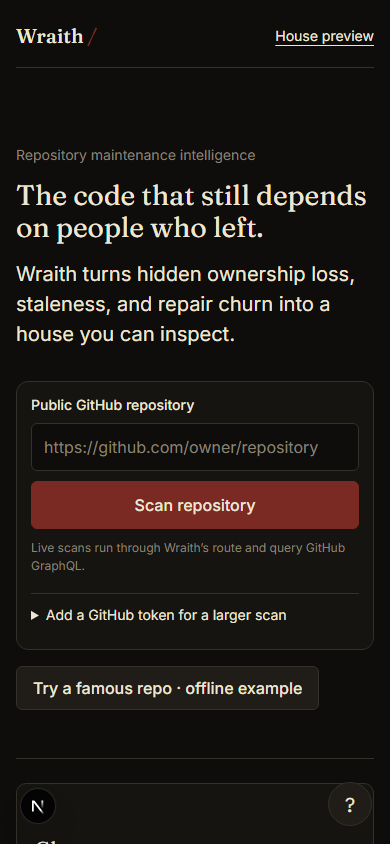
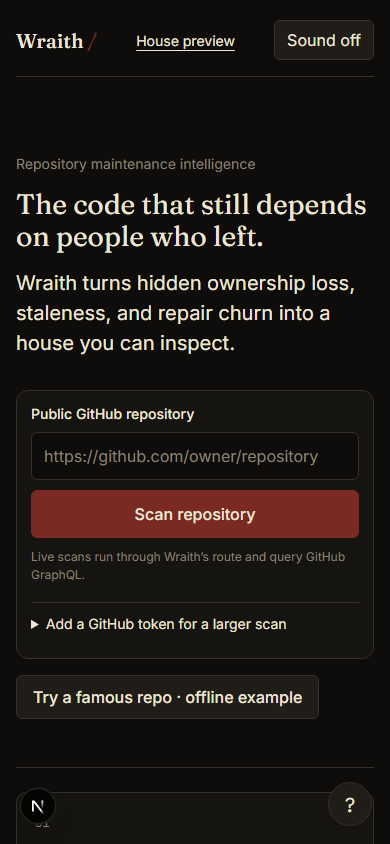
Add optional user activated sound cue

diff --git a/src/ui/ScannerExperience.tsx b/src/ui/ScannerExperience.tsx
@@ -3,6 +3,7 @@
 import { useCallback, useEffect, useState, type FormEvent } from 'react';
 import Lenis from 'lenis';
 import { motionTokens } from '../motion/tokens';
+import { useSound } from '../motion/sound';
 import { calculateRiskReport } from '../scoring';
 import { housePreviewSnapshot } from '../fixtures/houseReport';
 import type { RepoSnapshot, RiskReport } from '../types';
@@ -29,6 +30,7 @@ export default function ScannerExperience() {
   const [usingFixture, setUsingFixture] = useState(false);
   const [shortcutsOpen, setShortcutsOpen] = useState(false);
   const [easterEgg, setEasterEgg] = useState(false);
+  const sound = useSound();
 
   useEffect(() => {
     const reduced = !window.matchMedia || window.matchMedia('(prefers-reduced-motion: reduce)').matches;
@@ -49,6 +51,7 @@ export default function ScannerExperience() {
   }, []);
 
   const tryExample = useCallback(async () => {
+    sound.play();
     setState('loading');
     setMessage('Loading a local example. No GitHub request is made.');
     try {
@@ -62,10 +65,11 @@ export default function ScannerExperience() {
     showSnapshot({ ...housePreviewSnapshot, repoName: `Fixture · ${exampleRepository}` }, true);
     setRepoUrl(`https://github.com/${exampleRepository}`);
     setMessage(`Offline fixture loaded for ${exampleRepository}. It is illustrative sample data, not a live scan.`);
-  }, [showSnapshot]);
+  }, [showSnapshot, sound.play]);
 
   const scan = useCallback(async (event: FormEvent<HTMLFormElement>) => {
     event.preventDefault();
+    sound.play();
     setState('loading');
     setMessage('Reading repository files and history from GitHub.');
     setReport(null);
@@ -89,7 +93,7 @@ export default function ScannerExperience() {
       setState('error');
       setMessage('The scan service could not be reached. Check the connection and try again.');
     }
-  }, [repoUrl, showSnapshot, visitorToken]);
+  }, [repoUrl, showSnapshot, sound.play, visitorToken]);
 
   const reset = () => {
     setReport(null);
@@ -104,6 +108,7 @@ export default function ScannerExperience() {
       <header className="landing-nav">
         <a className="wordmark" href="/" aria-label="Wraith home">Wraith<span aria-hidden="true">/</span></a>
         <a className="nav-link" href="/house-preview">House preview</a>
+        <button className="sound-toggle" type="button" aria-pressed={sound.enabled} onClick={sound.toggle}>Sound {sound.enabled ? 'on' : 'off'}</button>
       </header>
       {!report ? (
         <>
@@ -171,6 +176,7 @@ export default function ScannerExperience() {
               {usingFixture && <p className="fixture-notice">Illustrative fixture data; no live repository scan has been run.</p>}
             </div>
             <button className="secondary-action" type="button" onClick={reset}>Scan another repository</button>
+            <button className="sound-toggle" type="button" aria-pressed={sound.enabled} onClick={sound.toggle}>Sound {sound.enabled ? 'on' : 'off'}</button>
           </div>
           <ReportNotices report={report} />
           <RiskExplorer report={report} />

diff --git a/src/motion/sound.ts b/src/motion/sound.ts
@@ -1,0 +1,25 @@
+'use client';
+import { useCallback, useEffect, useRef, useState } from 'react';
+import { soundConfig } from '../config';
+
+export function useSound() {
+  const [enabled, setEnabled] = useState(false);
+  const context = useRef<AudioContext | null>(null);
+  const play = useCallback(() => {
+    if (!enabled || typeof window === 'undefined' || !window.AudioContext) return;
+    const audio = context.current ?? (context.current = new AudioContext());
+    if (audio.state === 'suspended') void audio.resume();
+    const oscillator = audio.createOscillator();
+    const gain = audio.createGain();
+    oscillator.type = 'sine';
+    oscillator.frequency.value = soundConfig.cueFrequencyHz;
+    gain.gain.setValueAtTime(soundConfig.maximumGain, audio.currentTime);
+    gain.gain.exponentialRampToValueAtTime(0.001, audio.currentTime + soundConfig.cueDurationMs / 1000);
+    oscillator.connect(gain);
+    gain.connect(audio.destination);
+    oscillator.start();
+    oscillator.stop(audio.currentTime + soundConfig.cueDurationMs / 1000);
+  }, [enabled]);
+  useEffect(() => () => { if (context.current) void context.current.close(); }, []);
+  return { enabled, toggle: () => setEnabled((value) => !value), play };
+}

diff --git a/src/styles/house.css b/src/styles/house.css
@@ -38,6 +38,8 @@
 
 .primary-action, .example-action, .secondary-action, .view-switch button, .shortcut-help { transition: transform var(--dur-fast) var(--ease-out), opacity var(--dur-fast) var(--ease-out); }
 .primary-action:active, .example-action:active, .secondary-action:active, .view-switch button:active { transform: scale(.97); transition-duration: 90ms; }
+.sound-toggle { min-height: 40px; padding: 8px 12px; border: 1px solid var(--line); border-radius: 6px; background: var(--soot-800); color: var(--bone-100); cursor: pointer; transition: transform var(--dur-fast) var(--ease-out), opacity var(--dur-fast) var(--ease-out); }
+.sound-toggle:active { transform: scale(.97); transition-duration: 90ms; }
 .landing-story { display: grid; grid-template-columns: repeat(3, minmax(0, 1fr)); gap: 18px; margin: 130px 0 60px; padding-top: 28px; border-top: 1px solid var(--line); }
 .landing-story .eyebrow, .landing-story > a { grid-column: 1 / -1; }
 .landing-story div { min-height: 130px; padding: 20px; border: 1px solid var(--line); border-radius: 8px; background: var(--soot-900); }

diff --git a/src/config.ts b/src/config.ts
@@ -101,3 +101,9 @@ export const exorcismConfig = {
   particleFadeFrames: 42,
   maximumDaysForDisplay: 99_999,
 } as const;
+
+export const soundConfig = {
+  maximumGain: 0.08,
+  cueDurationMs: 70,
+  cueFrequencyHz: 520,
+} as const;

diff --git a/README.md b/README.md
@@ -50,7 +50,7 @@ npm run build
 
 House timelines share `src/motion/tokens.ts` and register with the master motion clock. The clock pauses when the tab is hidden. Reduced motion uses short fades and disables Lenis smooth scrolling. House controls support keyboard panning, zoom, reset, room opening and finding details. The house uses inline SVG and the findings view supports risk, path, and room filters.
 
-The landing includes a Lenis scroll narrative and a `?` shortcut sheet. The optional sound layer, ambient dust and fog, magnetic pull, scrubbed ScrollTrigger story, and cross-device animation profiling are not included yet.
+The landing includes a Lenis scroll narrative, a `?` shortcut sheet, and an optional synthesized sine cue. Sound starts off; the visitor must turn it on, after which scan actions play a 70 ms cue capped at 0.08 gain. Ambient dust and fog, magnetic pull, the scrubbed ScrollTrigger story, and cross-device animation profiling are not included yet.
 
 The local headless Edge sample measured p95 frame intervals of 16.7 ms on both the 40-file house fixture and `/house-preview/stress`, a generated 5,000-file/100-room report. This measures the idle assembled view for three seconds after render; it is not a production-device benchmark. The generated stress report contains no GitHub history or findings.
 
